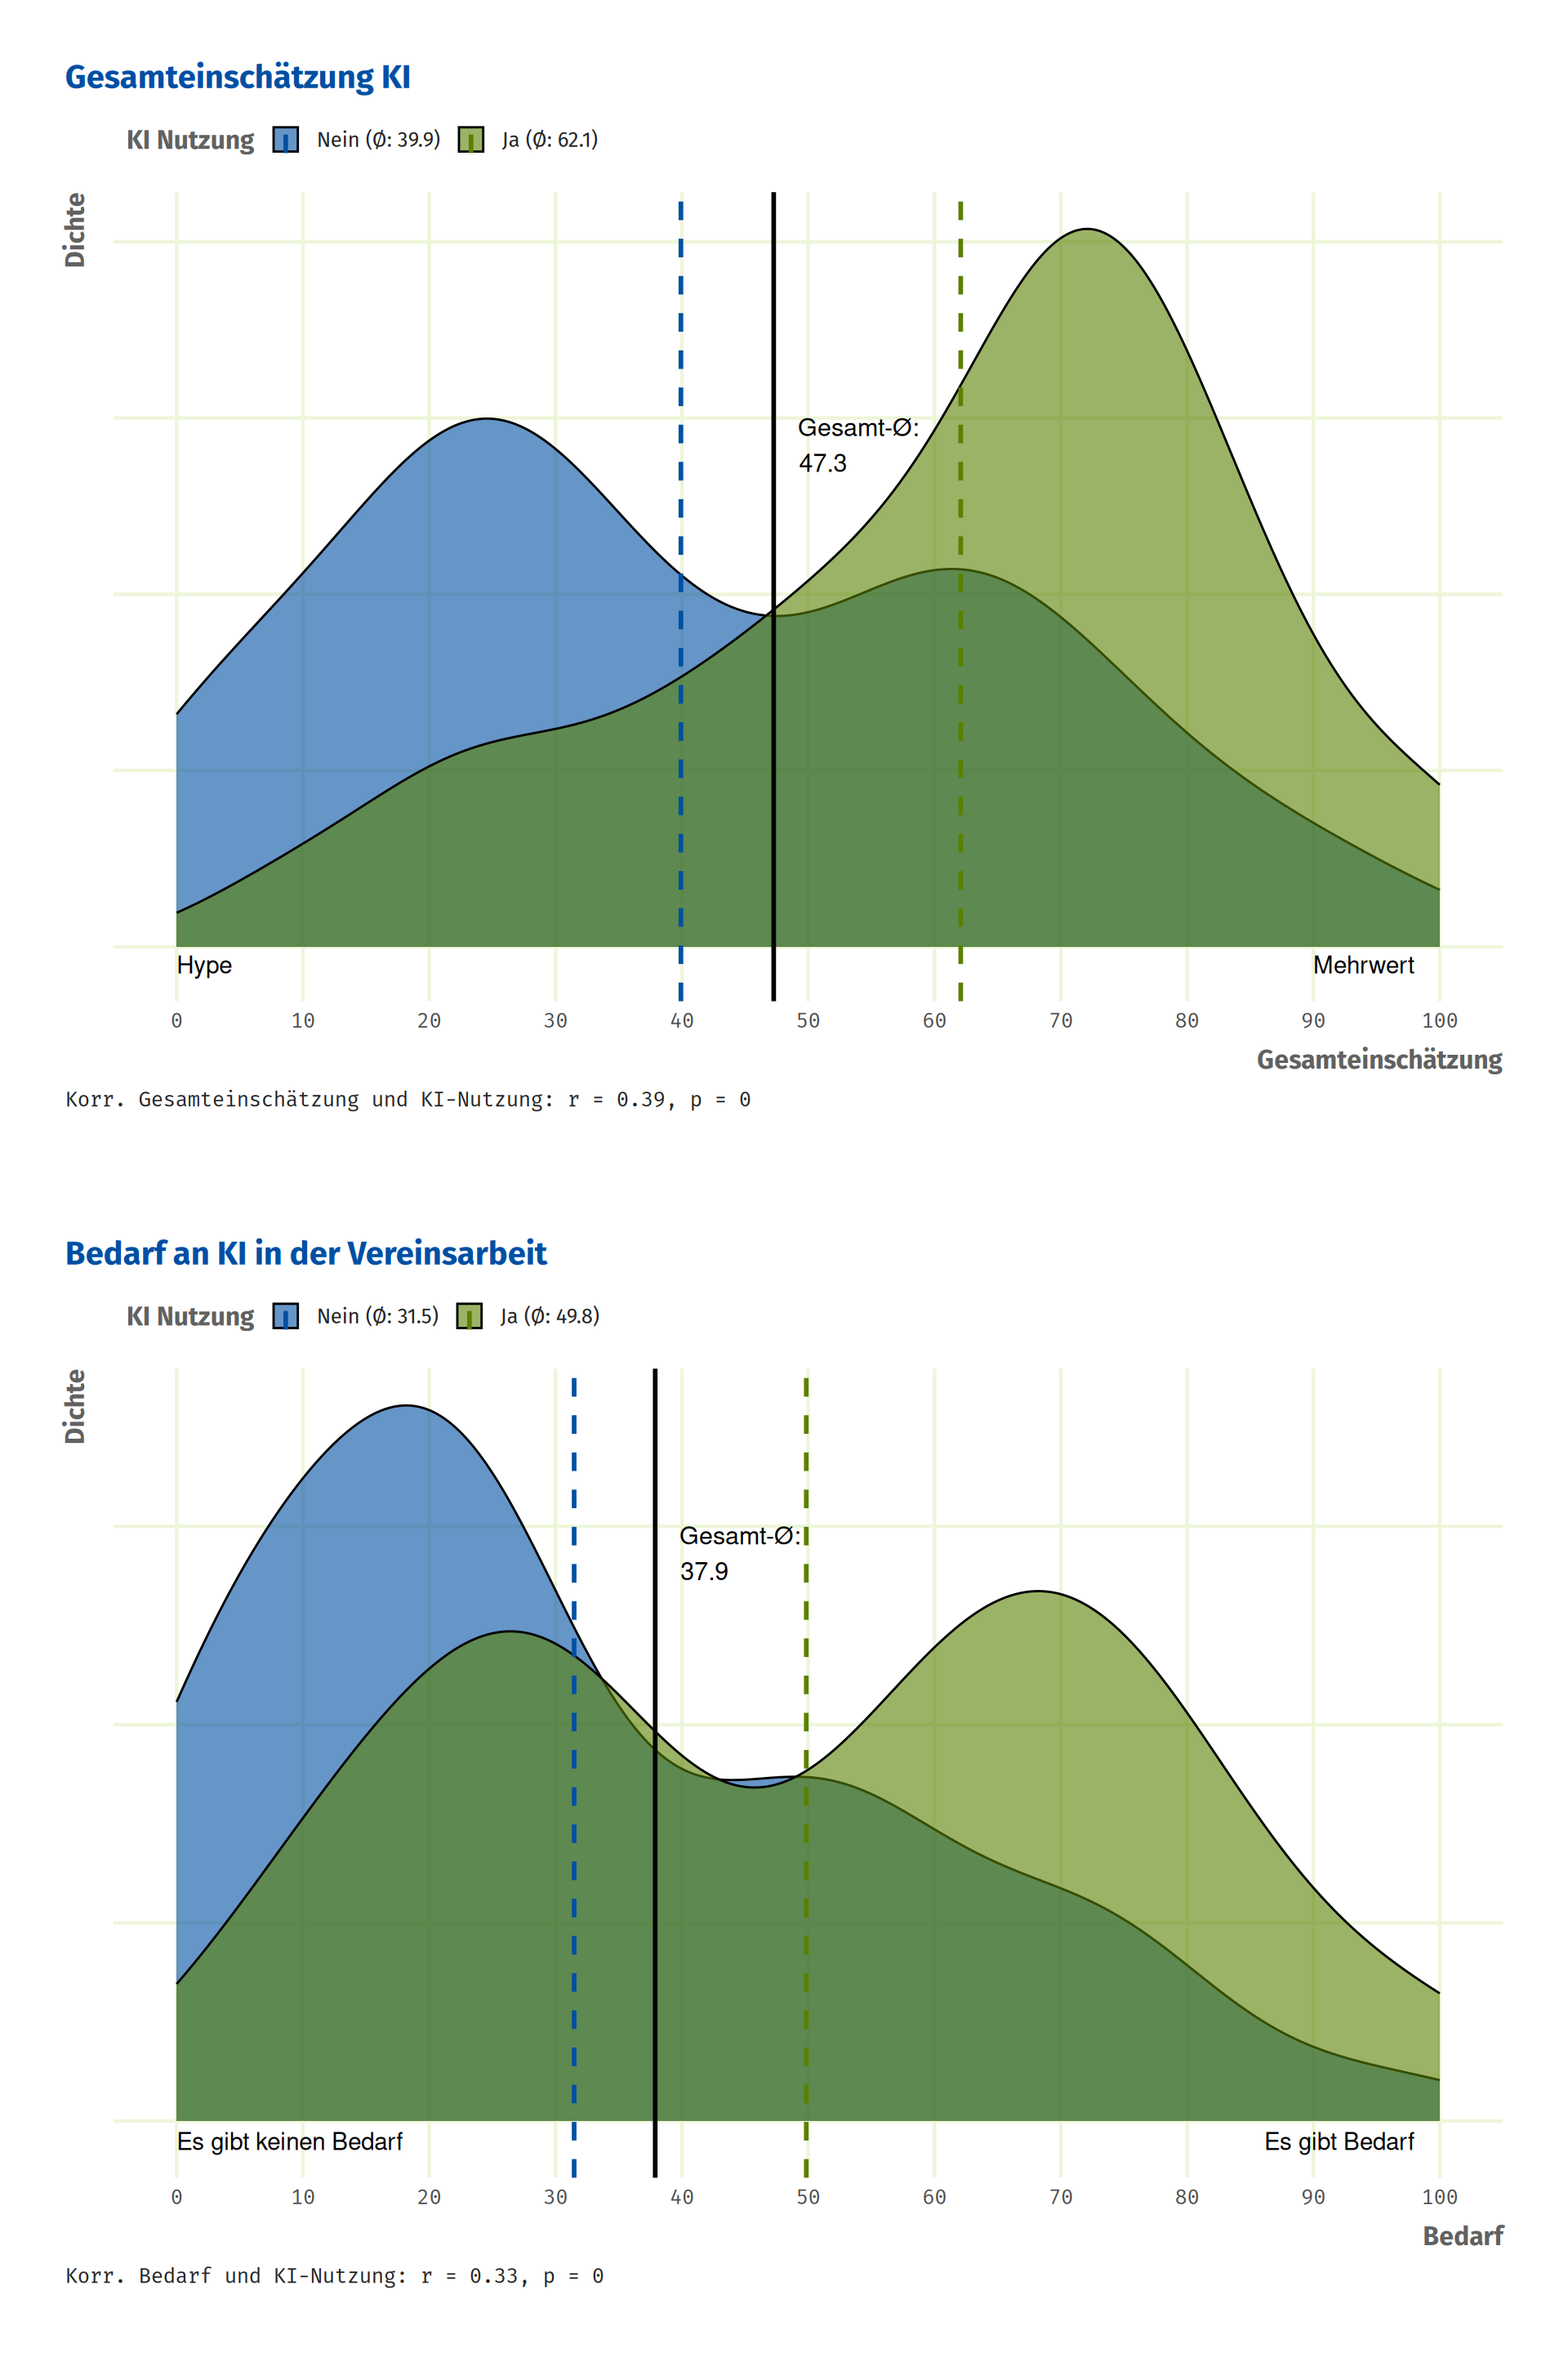
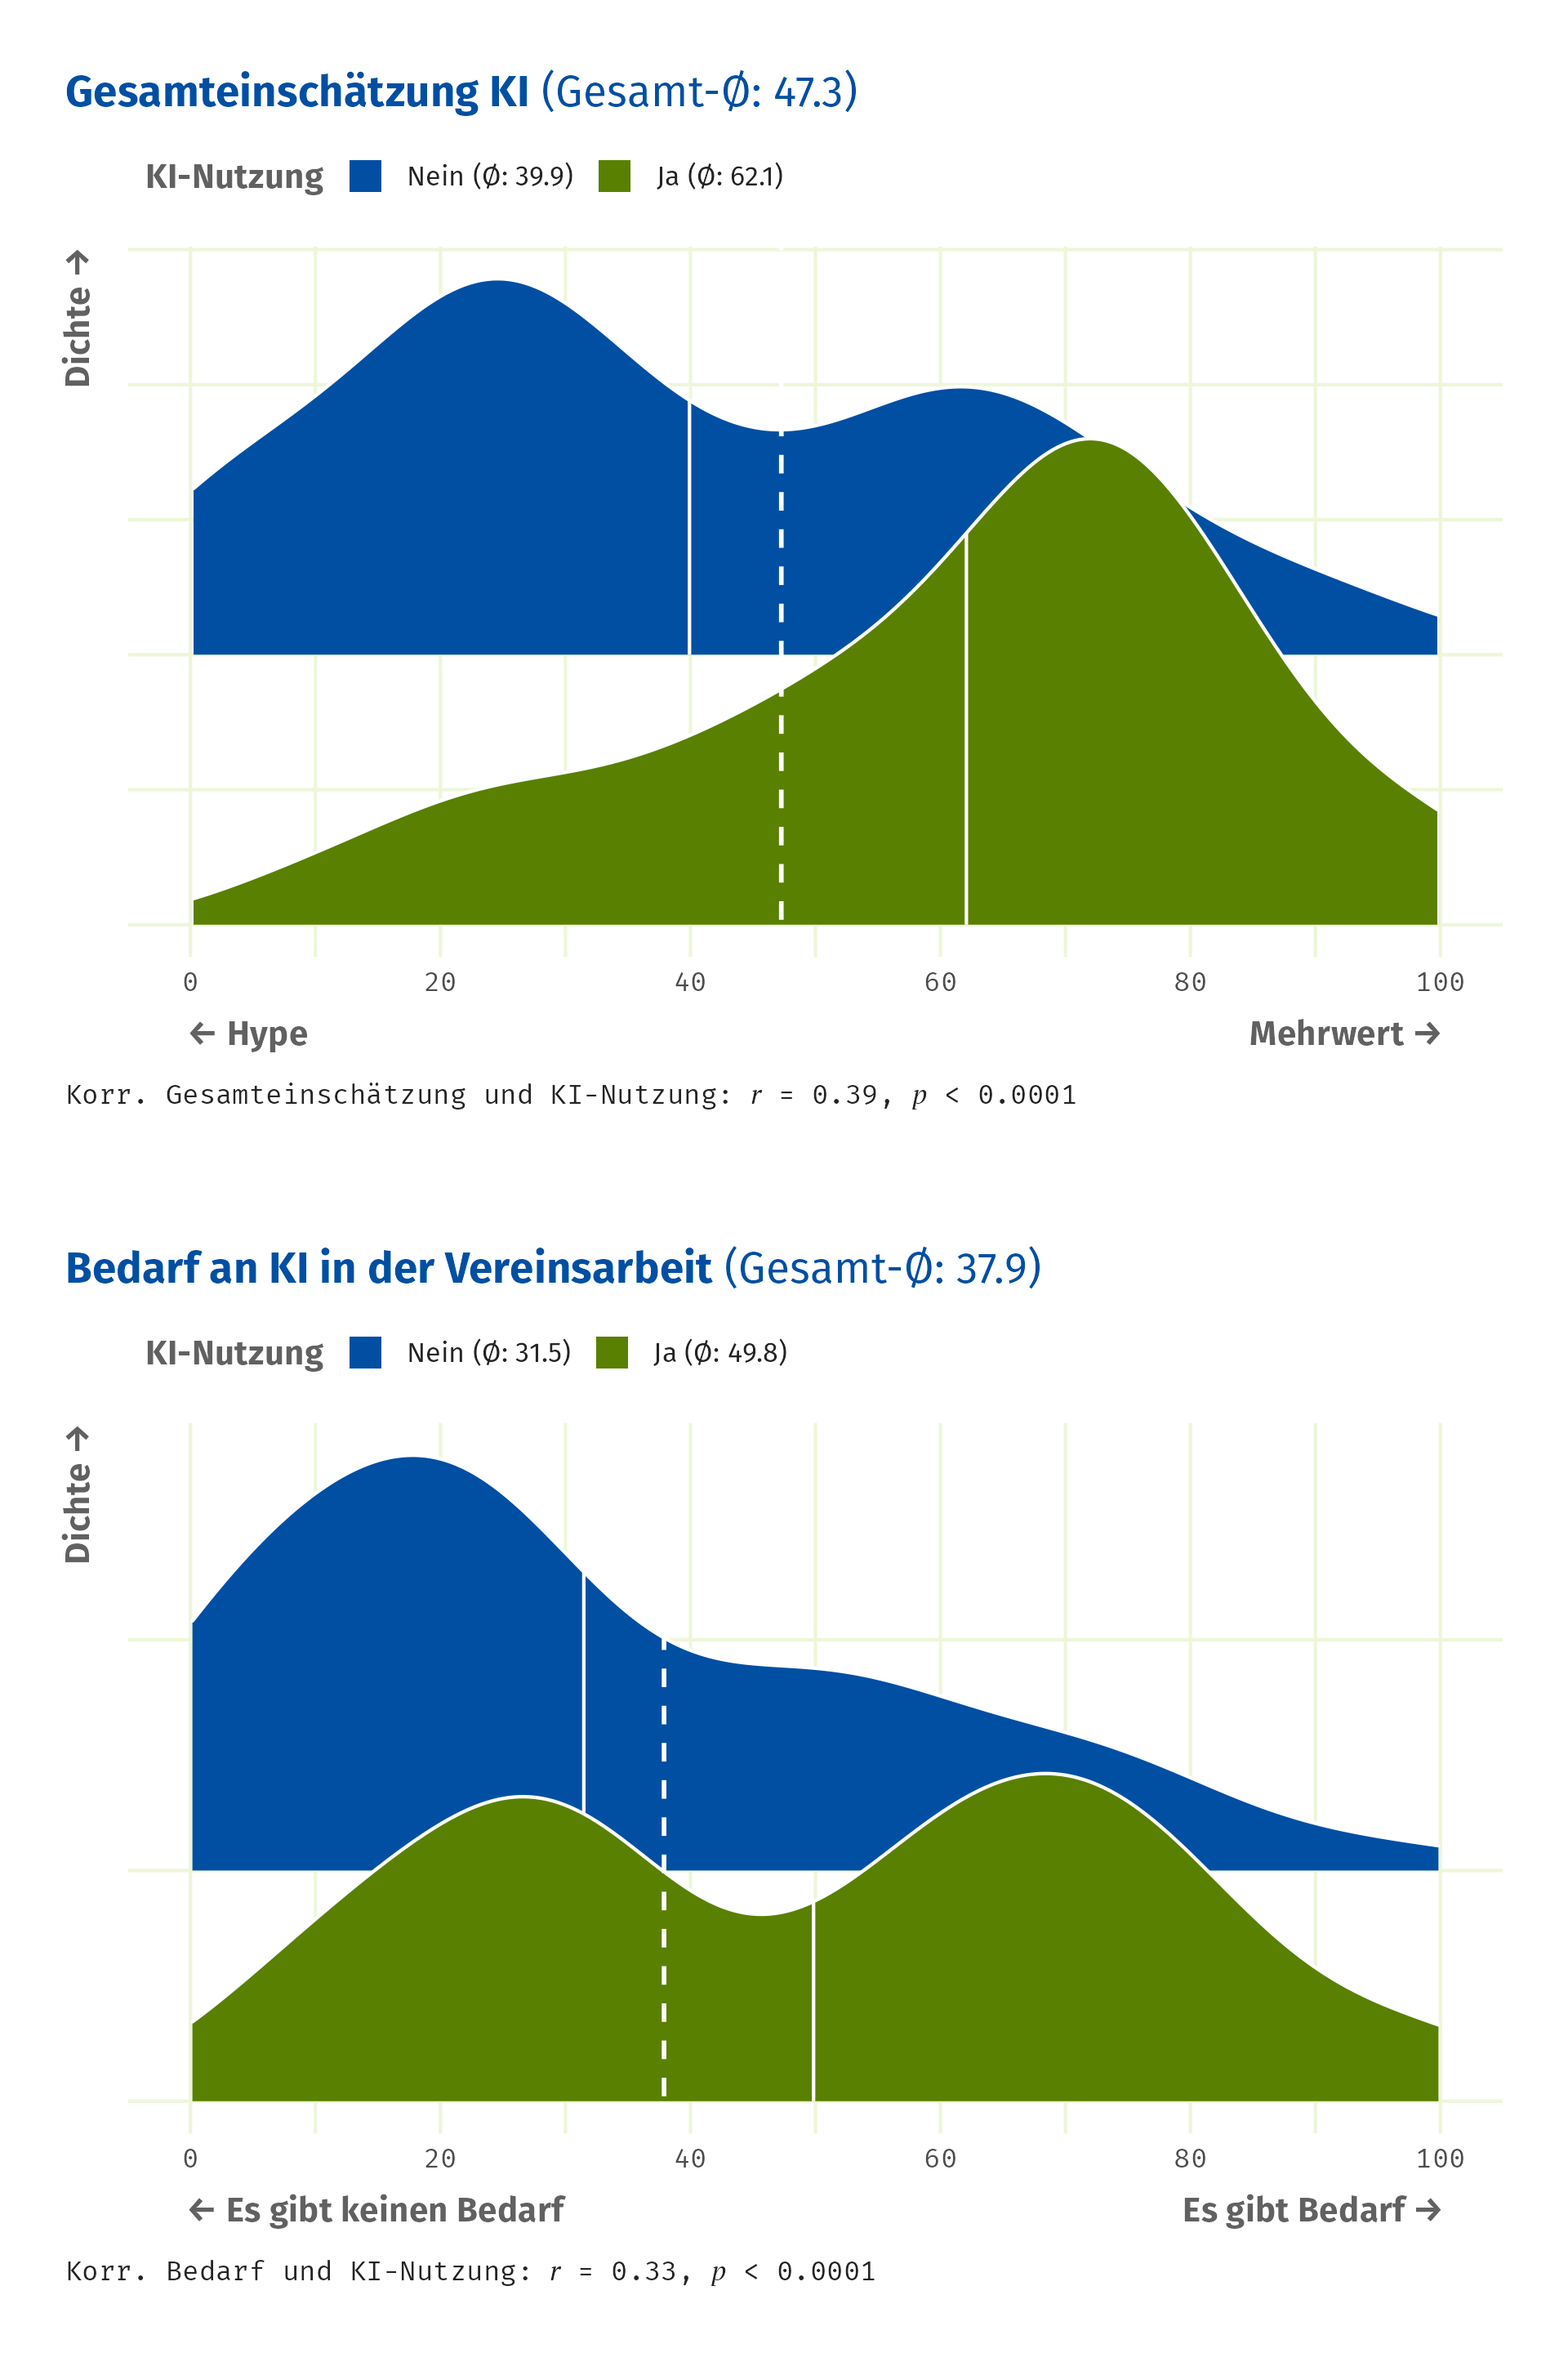
Update opinion plots

diff --git a/report.html b/report.html
@@ -145,46 +145,46 @@ Abbildung&nbsp;1
 <tr class="header">
 <th style="text-align: left;">Anwendung</th>
 <th style="text-align: right;">Anzahl</th>
-<th style="text-align: left;">% aller Befragten</th>
-<th style="text-align: left;">% der KI-Nutzer</th>
+<th style="text-align: right;">% aller Befragten</th>
+<th style="text-align: right;">% der KI-Nutzer</th>
 </tr>
 </thead>
 <tbody>
 <tr class="odd">
 <td style="text-align: left;">ChatGPT (kostenlose Version)</td>
 <td style="text-align: right;">62</td>
-<td style="text-align: left;">28.7%</td>
-<td style="text-align: left;">91.2%</td>
+<td style="text-align: right;">28.7%</td>
+<td style="text-align: right;">91.2%</td>
 </tr>
 <tr class="even">
 <td style="text-align: left;">KI-Bildgeneratoren (z.B.: Midjourney, Canva)</td>
 <td style="text-align: right;">28</td>
-<td style="text-align: left;">13.0%</td>
-<td style="text-align: left;">41.2%</td>
+<td style="text-align: right;">13.0%</td>
+<td style="text-align: right;">41.2%</td>
 </tr>
 <tr class="odd">
 <td style="text-align: left;">Microsoft Copilot</td>
 <td style="text-align: right;">20</td>
-<td style="text-align: left;">9.3%</td>
-<td style="text-align: left;">29.4%</td>
+<td style="text-align: right;">9.3%</td>
+<td style="text-align: right;">29.4%</td>
 </tr>
 <tr class="even">
 <td style="text-align: left;">KI basierte Übersetzungstools (z.B.: DeepL)</td>
 <td style="text-align: right;">19</td>
-<td style="text-align: left;">8.8%</td>
-<td style="text-align: left;">27.9%</td>
+<td style="text-align: right;">8.8%</td>
+<td style="text-align: right;">27.9%</td>
 </tr>
 <tr class="odd">
 <td style="text-align: left;">Gemini (Google)</td>
 <td style="text-align: right;">14</td>
-<td style="text-align: left;">6.5%</td>
-<td style="text-align: left;">20.6%</td>
+<td style="text-align: right;">6.5%</td>
+<td style="text-align: right;">20.6%</td>
 </tr>
 <tr class="even">
 <td style="text-align: left;">Sprachassistenten (z.B.: Alexa)</td>
 <td style="text-align: right;">11</td>
-<td style="text-align: left;">5.1%</td>
-<td style="text-align: left;">16.2%</td>
+<td style="text-align: right;">5.1%</td>
+<td style="text-align: right;">16.2%</td>
 </tr>
 </tbody>
 </table>
@@ -237,7 +237,7 @@ Abbildung&nbsp;1
 <li><p>Auch hier gibt es Unterschiede zwischen KI-Nutzenden und solchen, die es nicht tun. Mit einem Durchschnitt von 31.5 sind sich Nicht-Nutzende relativ einig, dass es keinen Bedarf an KI in der Vereinsarbeit gibt. Bei den KI-Nutzenden hingegen gibt es diesbezüglich Uneinigkeit. Hier ist der Durchschnitt ungefähr bei 50.</p></li>
 <li><p>Auch hier hat die Nutzung von KI einen statistisch signifikanten positiven Einfluss auf die Einschätzung des Bedarfs.</p></li>
 </ul>
-<div class="cell" height="20">
+<div class="cell">
 <div class="cell-output-display">
 <div id="fig-KI-opinion" class="quarto-float quarto-figure quarto-figure-center anchored" width="960">
 <figure class="quarto-float quarto-float-fig figure">
@@ -274,16 +274,16 @@ Abbildung&nbsp;3
 </div>
 <p>Correlation of Q8 with KI usage</p>
 <div class="cell">
-<div class="sourceCode cell-code" id="cb2"><pre class="sourceCode r code-with-copy"><code class="sourceCode r"><span id="cb2-1"><a href="#cb2-1" aria-hidden="true" tabindex="-1"></a>correlations <span class="ot">&lt;-</span> df <span class="sc">%&gt;%</span></span>
-<span id="cb2-2"><a href="#cb2-2" aria-hidden="true" tabindex="-1"></a>  <span class="fu">select</span>(<span class="fu">matches</span>(<span class="st">"^Q8_[0-9]+$"</span>)) <span class="sc">%&gt;%</span></span>
-<span id="cb2-3"><a href="#cb2-3" aria-hidden="true" tabindex="-1"></a>  <span class="fu">map_dbl</span>(<span class="sc">~</span> <span class="fu">cor</span>(.x, df<span class="sc">$</span>ki_usage, <span class="at">use =</span> <span class="st">"pairwise.complete.obs"</span>))</span>
-<span id="cb2-4"><a href="#cb2-4" aria-hidden="true" tabindex="-1"></a></span>
-<span id="cb2-5"><a href="#cb2-5" aria-hidden="true" tabindex="-1"></a>correlations <span class="ot">&lt;-</span> <span class="fu">set_names</span>(</span>
-<span id="cb2-6"><a href="#cb2-6" aria-hidden="true" tabindex="-1"></a>  correlations,</span>
-<span id="cb2-7"><a href="#cb2-7" aria-hidden="true" tabindex="-1"></a>  <span class="fu">names</span>(df <span class="sc">%&gt;%</span> <span class="fu">select</span>(<span class="fu">matches</span>(<span class="st">"^Q8_[0-9]+$"</span>)))</span>
-<span id="cb2-8"><a href="#cb2-8" aria-hidden="true" tabindex="-1"></a>)</span>
-<span id="cb2-9"><a href="#cb2-9" aria-hidden="true" tabindex="-1"></a></span>
-<span id="cb2-10"><a href="#cb2-10" aria-hidden="true" tabindex="-1"></a><span class="fu">print</span>(correlations)</span></code><button title="In die Zwischenablage kopieren" class="code-copy-button"><i class="bi"></i></button></pre></div>
+<div class="sourceCode cell-code" id="cb1"><pre class="sourceCode r code-with-copy"><code class="sourceCode r"><span id="cb1-1"><a href="#cb1-1" aria-hidden="true" tabindex="-1"></a>correlations <span class="ot">&lt;-</span> df <span class="sc">%&gt;%</span></span>
+<span id="cb1-2"><a href="#cb1-2" aria-hidden="true" tabindex="-1"></a>  <span class="fu">select</span>(<span class="fu">matches</span>(<span class="st">"^Q8_[0-9]+$"</span>)) <span class="sc">%&gt;%</span></span>
+<span id="cb1-3"><a href="#cb1-3" aria-hidden="true" tabindex="-1"></a>  <span class="fu">map_dbl</span>(<span class="sc">~</span> <span class="fu">cor</span>(.x, df<span class="sc">$</span>ki_usage, <span class="at">use =</span> <span class="st">"pairwise.complete.obs"</span>))</span>
+<span id="cb1-4"><a href="#cb1-4" aria-hidden="true" tabindex="-1"></a></span>
+<span id="cb1-5"><a href="#cb1-5" aria-hidden="true" tabindex="-1"></a>correlations <span class="ot">&lt;-</span> <span class="fu">set_names</span>(</span>
+<span id="cb1-6"><a href="#cb1-6" aria-hidden="true" tabindex="-1"></a>  correlations,</span>
+<span id="cb1-7"><a href="#cb1-7" aria-hidden="true" tabindex="-1"></a>  <span class="fu">names</span>(df <span class="sc">%&gt;%</span> <span class="fu">select</span>(<span class="fu">matches</span>(<span class="st">"^Q8_[0-9]+$"</span>)))</span>
+<span id="cb1-8"><a href="#cb1-8" aria-hidden="true" tabindex="-1"></a>)</span>
+<span id="cb1-9"><a href="#cb1-9" aria-hidden="true" tabindex="-1"></a></span>
+<span id="cb1-10"><a href="#cb1-10" aria-hidden="true" tabindex="-1"></a><span class="fu">print</span>(correlations)</span></code><button title="In die Zwischenablage kopieren" class="code-copy-button"><i class="bi"></i></button></pre></div>
 <div class="cell-output cell-output-stdout">
 <pre><code>       Q8_1        Q8_2        Q8_3        Q8_4        Q8_5        Q8_6 
  0.37760485  0.40842699  0.08565472 -0.17464937 -0.12103040  0.24222744 
@@ -310,7 +310,7 @@ Abbildung&nbsp;3
 <li><p>Bei den Herausforderungen von KI hingegen sind sich Nutzende dieser Technologie und solche, die dies nicht tun, relativ einig. Hier werden mangelndes Know-How und Datenschutzbedenken als am zutreffendsten angegeben. Ebenfalls häufig als herausfordernd bewertet ist die Schwierigkeit, die richtige KI-Anwendung zu finden. Hier ist jedoch interessant, dass es eine größere Menge an Leuten gibt, die dies wiederum nicht als herausfordernd bewerten, was in diesem Punkt für Uneinigkeit spricht.</p></li>
 <li><p>Ethische Bedenken und Kosten-Nutzen-Relation scheinen die Befragten jedoch klar nicht als herausfordernd zu empfinden.</p></li>
 </ul>
-<div class="cell" height="20">
+<div class="cell">
 <div class="cell-output-display">
 <div id="fig-KI-challenges" class="quarto-float quarto-figure quarto-figure-center anchored" width="960">
 <figure class="quarto-float quarto-float-fig figure">
